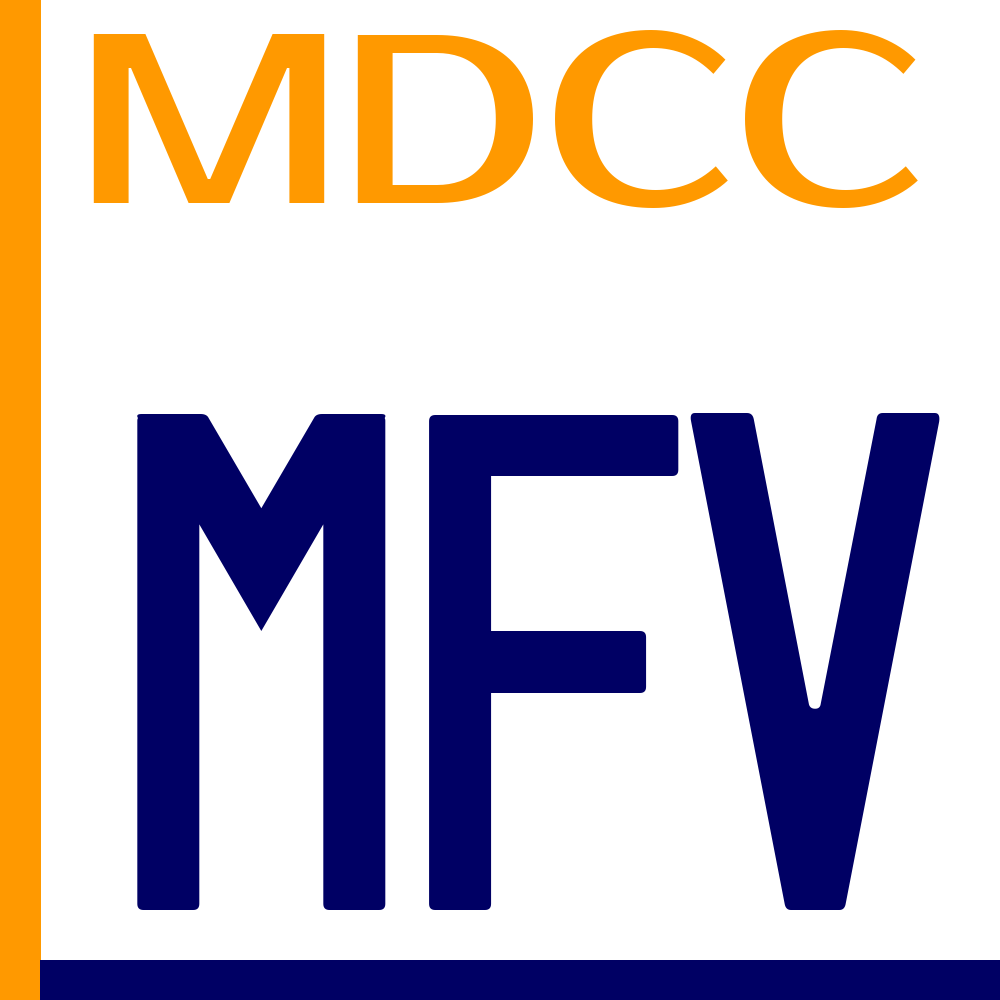
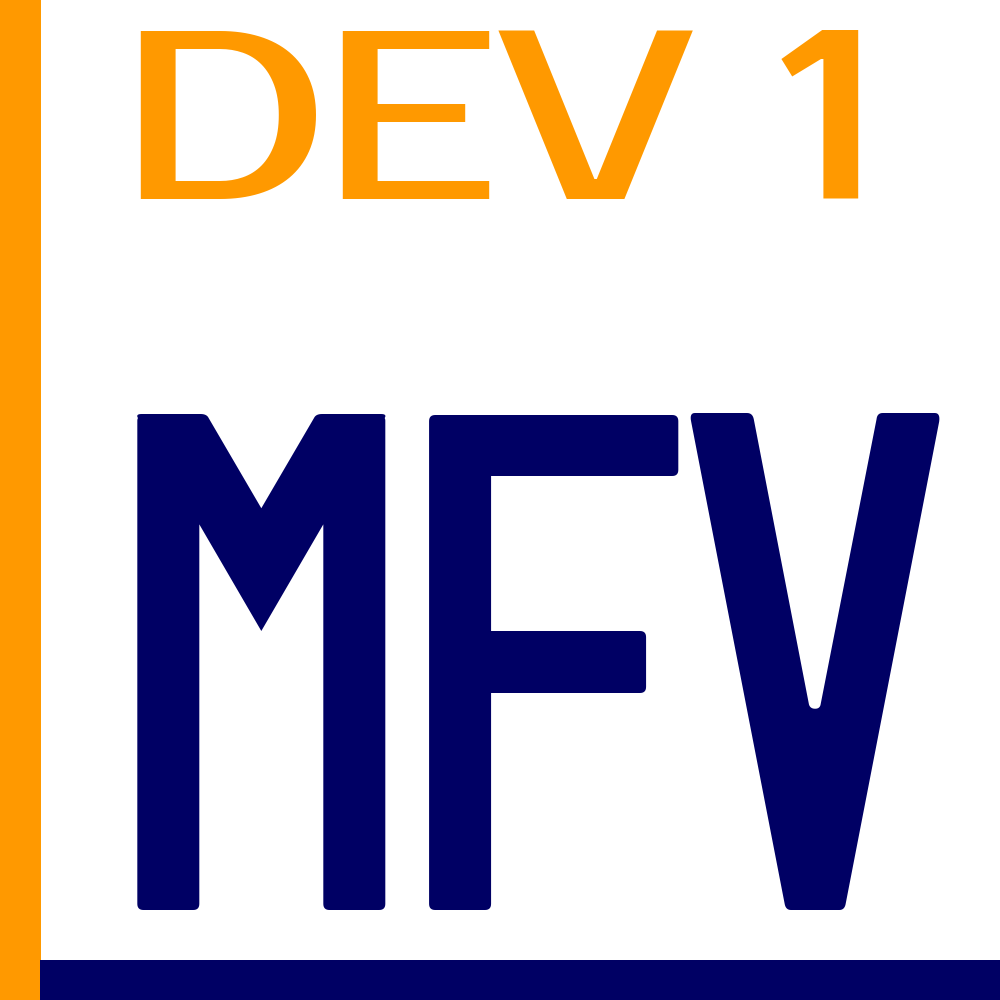
dynamic server

Changed region(s): [[0.093, 0.031, 0.93, 0.217]]

diff --git a/main.py b/main.py
@@ -1,52 +1,54 @@
+import shutil
+import os
+
 from PIL import Image, ImageFont, ImageDraw, ImageColor
 from favicons import Favicons
 
-def text_to_image(
-text: str,
-font_filepath: str,
-font_size: int,
-color: (int, int, int), #color is in RGB
-font_align="center"):
-    font = ImageFont.truetype(font_filepath, 620)
+def text_to_image(app_name: str, environment: str):
+    orange = (255, 153, 0)
+    blue = (0, 0, 100)
+    font = ImageFont.truetype('targa/Targa.ttf', 620)
     font2 = ImageFont.truetype('prosto/Prosto.ttf', 240)
     img = Image.new("RGBA", (1000, 1000), (255, 255, 255))
     draw = ImageDraw.Draw(img)
     draw.text(
         (950, 910),
-        text,
-        (0, 0, 100),
+        app_name,
+        blue,
         anchor="rs",
         font=font,
-        #align='center'
     )
     draw.text(
         (500, 30),
-        'MDCC',
-        color,
+        environment,
+        orange,
         anchor="mt",
         font=font2,
-        #align='center'
     )
-    draw.rectangle([(0, 0), (40, 1000)] , fill=color, outline=None)
-    draw.rectangle([(40, 960), (1000, 1000)] , fill=(0, 0, 100), outline=None)
-    # img.show()
-    # img.save("a_test.png")
+    draw.rectangle([(0, 0), (40, 1000)] , fill=orange)
+    draw.rectangle([(40, 960), (1000, 1000)] , fill=blue)
     return img
 
 if __name__ == '__main__':
-    res = text_to_image(
-        'MFV',
-        'targa/Targa.ttf',
-        600,
-        (255, 153, 0)
-    )
-    print(res)
-    res.show()
-    res.save("mfv.png")
+    app_name = 'MFV'
+
+    shutil.rmtree(app_name)
+    os.mkdir(app_name)
+    environments = ['MDCC', 'TEST', 'DEV', 'DEV 1', 'DEV 2', 'DEV 3', 'DEV 4', 'DEV 5', 'BUILD']
+    for environment in environments:
+        os.mkdir(f"{app_name}/{environment}")
+        os.mkdir(f"{app_name}/{environment}/favicon")
+        res = text_to_image(
+            app_name,
+            environment
+        )
+        print(res)
+#        res.show()
+        res.save(f"{app_name}/{environment}/{environment}.png")
 
 
-    YOUR_ICON = "mfv.png"
-    WEB_SERVER_ROOT = "favicon"
+        YOUR_ICON = f"{app_name}/{environment}/{environment}.png"
+        WEB_SERVER_ROOT = f"{app_name}/{environment}/favicon"
 
-    with Favicons(YOUR_ICON, WEB_SERVER_ROOT) as favicons:
-        favicons.generate()
+        with Favicons(YOUR_ICON, WEB_SERVER_ROOT) as favicons:
+            favicons.generate()
